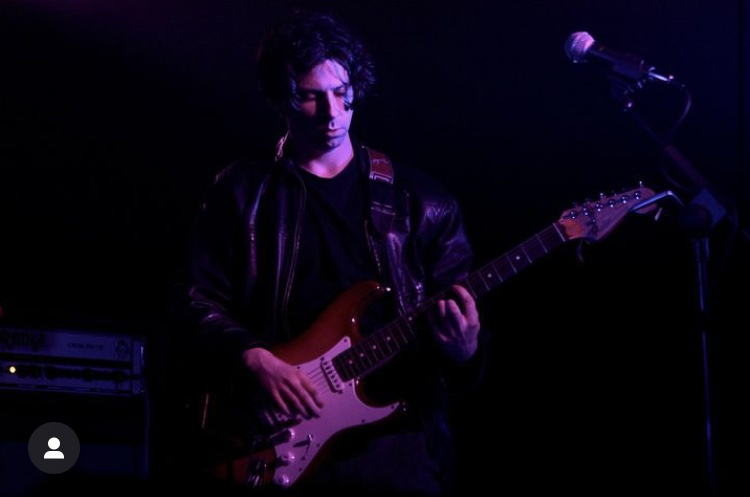
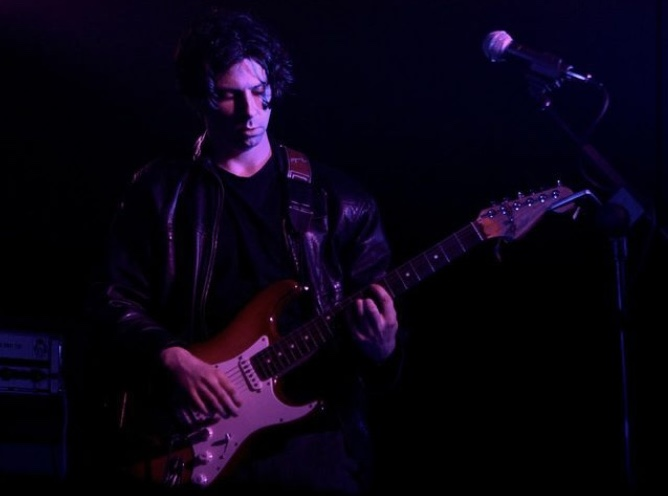
anged metadata

diff --git a/index.html b/index.html
@@ -4,7 +4,7 @@
 <title>Adam James Geraghty</title>
 <meta charset="utf-8">
 <meta http-equiv="X-UA-Compatible" content="IE=edge">
-<meta name="description" content="Mixtape template project">
+<meta name="description" content="Adam James Geraghty music page">
 <meta name="viewport" content="width=device-width, initial-scale=1">
 <link rel="stylesheet" type="text/css" href="styles/bootstrap-4.1.2/bootstrap.min.css">
 <link href="plugins/font-awesome-4.7.0/css/font-awesome.min.css" rel="stylesheet" type="text/css">
@@ -82,7 +82,7 @@
 				
 				<!-- Slide -->
 				<div class="owl-item">
-					<div class="background_image" style="background-image:url(images/6D2F2C44-A56A-4F4A-B2BE-69D9794EABE3.JPG)"></div>
+					<div class="background_image" style="background-image:url(images/6D2F2C44-A56A-4F4A-B2BE-69D9794EABE3.JPG); background-size: 70%;"></div>
 					<div class="home_container">
 						<div class="home_container_inner d-flex flex-column align-items-center justify-content-center">
 							<div class="home_content text-center">
@@ -110,7 +110,7 @@
 
 				<!-- Slide -->
 				<div class="owl-item">
-					<div class="background_image" style="background-image:url(images/IMG_9787.JPG)"></div>
+					<div class="background_image" style="background-image:url(images/IMG_9787.JPG); background-size: 65%;"></div>
 					<div class="home_container">
 						<div class="home_container_inner d-flex flex-column align-items-center justify-content-center">
 							<div class="home_content text-center">

diff --git a/js/custom.js b/js/custom.js
@@ -90,7 +90,14 @@ $(document).ready(function()
 		}
 	}
 
+
+
+
 	/* 
+
+
+
+	
 
 	4. Init Home Slider
 
@@ -107,12 +114,12 @@ $(document).ready(function()
     			animateIn: 'fadeInRight',
 				items:1,
 				loop:true,
-				autoplay:false,
-				autoplayTimeout:8000,
-				smartSpeed:1200,
-				autoplaySpeed:1200,
-				dotsSpeed:1200,
-				mouseDrag:false,
+				autoplay:true,
+				autoplayTimeout:3000,
+				smartSpeed:3000,
+				autoplaySpeed:3000,
+				dotsSpeed:3000,
+				mouseDrag:true,
 				nav:false,
 				dots:true,
 				margin:250

diff --git a/single.html b/single.html
@@ -4,7 +4,7 @@
 <title>Single Album</title>
 <meta charset="utf-8">
 <meta http-equiv="X-UA-Compatible" content="IE=edge">
-<meta name="description" content="Mixtape template project">
+<meta name="description" content="Adam James Geraghty music page">
 <meta name="viewport" content="width=device-width, initial-scale=1">
 <link rel="stylesheet" type="text/css" href="styles/bootstrap-4.1.2/bootstrap.min.css">
 <link href="plugins/font-awesome-4.7.0/css/font-awesome.min.css" rel="stylesheet" type="text/css">

diff --git a/elements.html b/elements.html
@@ -4,7 +4,7 @@
 <title>Elements</title>
 <meta charset="utf-8">
 <meta http-equiv="X-UA-Compatible" content="IE=edge">
-<meta name="description" content="Mixtape template project">
+<meta name="description" content="Adam James Geraghty music page">
 <meta name="viewport" content="width=device-width, initial-scale=1">
 <link rel="stylesheet" type="text/css" href="styles/bootstrap-4.1.2/bootstrap.min.css">
 <link href="plugins/font-awesome-4.7.0/css/font-awesome.min.css" rel="stylesheet" type="text/css">

diff --git a/contact.html b/contact.html
@@ -4,7 +4,7 @@
 <title>Contact</title>
 <meta charset="utf-8">
 <meta http-equiv="X-UA-Compatible" content="IE=edge">
-<meta name="description" content="Mixtape template project">
+<meta name="description" content="Adam James Geraghty music page">
 <meta name="viewport" content="width=device-width, initial-scale=1">
 <link rel="stylesheet" type="text/css" href="styles/bootstrap-4.1.2/bootstrap.min.css">
 <link href="plugins/font-awesome-4.7.0/css/font-awesome.min.css" rel="stylesheet" type="text/css">

diff --git a/about.html b/about.html
@@ -4,7 +4,7 @@
 <title>About</title>
 <meta charset="utf-8">
 <meta http-equiv="X-UA-Compatible" content="IE=edge">
-<meta name="description" content="Mixtape template project">
+<meta name="description" content="Adam James Geraghty music page">
 <meta name="viewport" content="width=device-width, initial-scale=1">
 <link rel="stylesheet" type="text/css" href="styles/bootstrap-4.1.2/bootstrap.min.css">
 <link href="plugins/font-awesome-4.7.0/css/font-awesome.min.css" rel="stylesheet" type="text/css">

diff --git a/blog.html b/blog.html
@@ -4,7 +4,7 @@
 <title>Blog</title>
 <meta charset="utf-8">
 <meta http-equiv="X-UA-Compatible" content="IE=edge">
-<meta name="description" content="Mixtape template project">
+<meta name="description" content="Adam James Geraghty music page">
 <meta name="viewport" content="width=device-width, initial-scale=1">
 <link rel="stylesheet" type="text/css" href="styles/bootstrap-4.1.2/bootstrap.min.css">
 <link href="plugins/font-awesome-4.7.0/css/font-awesome.min.css" rel="stylesheet" type="text/css">
